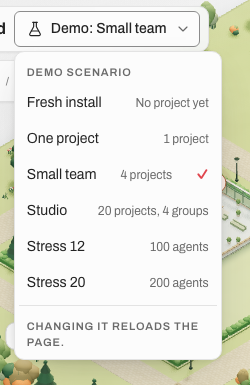
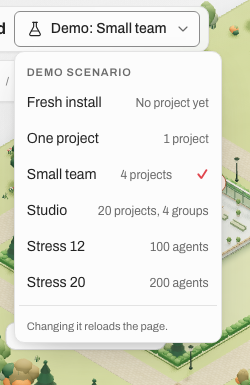
world: the picker's focus note survives blocked site data, and its sentence is a sentence (w5-18, a second commit, round 65)
A fault of the branch's first commit, found on re-reading it: App's mount effect read `globalThis.sessionStorage`
outside the note's `try`. With blocked site data that read itself throws, and the demo rendered an empty page (seen in a
headless browser with the getter throwing: no shell, no canvas; the base's town stands). rememberFocus and takeFocus
now take a function asked inside the `try`, as state/setting.ts does. Red first: two of the four tests in
afterReload.test.ts failed before this.

The picker's line "Changing it reloads the page." stood in the kit's group label capitals; a world.css rule gives it
sentence case, regular weight. The after picture is retaken.

Changed region(s): [[0.056, 0.8104, 0.896, 0.9662]]

diff --git a/apps/world/test/afterReload.test.ts b/apps/world/test/afterReload.test.ts
@@ -1,6 +1,8 @@
 /* Choosing a scenario in the Demo chip's menu loads that scenario's page, and nothing was focused afterwards (round 65,
    walk finding w5-18): the chip remembers, for this tab, that the Demo chip should take the focus once the page is
-   back (state/afterReload.ts, over sessionStorage). Taken once: a later plain reload focuses nothing, as before. */
+   back (state/afterReload.ts, over sessionStorage). Taken once: a later plain reload focuses nothing, as before. The
+   storage is asked for inside the `try`: with blocked site data reading `sessionStorage` itself throws, and that read on
+   the App's mount would leave an empty page (seen in a browser before this was so). */
 import assert from "node:assert/strict";
 import test from "node:test";
 import { rememberFocus, takeFocus } from "../src/state/afterReload.ts";
@@ -17,19 +19,32 @@ const storage = () => {
 
 test("remembered once, taken once: the Demo chip after the scenario's page loads, then nothing", () => {
   const s = storage();
-  assert.equal(takeFocus(s), null, "nothing remembered: nothing to focus");
-  rememberFocus(s, "demo-chip");
+  assert.equal(takeFocus(() => s), null, "nothing remembered: nothing to focus");
+  rememberFocus(() => s, "demo-chip");
   assert.equal(s.map.size, 1, "one key in the tab's storage");
-  assert.equal(takeFocus(s), "demo-chip");
-  assert.equal(takeFocus(s), null, "taken once; a later reload focuses nothing");
+  assert.equal(takeFocus(() => s), "demo-chip");
+  assert.equal(takeFocus(() => s), null, "taken once; a later reload focuses nothing");
   assert.equal(s.map.size, 0, "the key is gone");
 });
 
-test("a value this build does not know, or a storage that throws, is nothing to focus", () => {
+test("a value this build does not know is nothing to focus, and is cleared", () => {
   const s = storage();
   s.setItem("crewhub-world:focus-after-reload", "something-else");
-  assert.equal(takeFocus(s), null);
+  assert.equal(takeFocus(() => s), null);
+  assert.equal(s.map.size, 0);
+});
+
+test("a storage whose methods throw is nothing to remember and nothing to focus", () => {
   const throwing = { getItem: () => { throw new Error("no storage"); }, setItem: () => { throw new Error("no storage"); }, removeItem: () => { throw new Error("no storage"); } };
-  assert.doesNotThrow(() => rememberFocus(throwing, "demo-chip"));
-  assert.equal(takeFocus(throwing), null);
+  assert.doesNotThrow(() => rememberFocus(() => throwing, "demo-chip"));
+  assert.equal(takeFocus(() => throwing), null);
+});
+
+test("reading the storage itself may throw (blocked site data): neither call lets it out", () => {
+  const blocked = (): never => {
+    throw new DOMException("Access is denied", "SecurityError");
+  };
+  assert.doesNotThrow(() => rememberFocus(blocked, "demo-chip"));
+  assert.doesNotThrow(() => takeFocus(blocked));
+  assert.equal(takeFocus(blocked), null);
 });

diff --git a/apps/world/src/state/afterReload.ts b/apps/world/src/state/afterReload.ts
@@ -1,8 +1,9 @@
 /* What should take the focus once a page the chip loaded is back (round 65, walk finding w5-18): choosing a scenario in
    the Demo chip's menu loads that scenario's page (its own source and town document), and nothing was focused
    afterwards, so a keyboard person started from nowhere. The chip remembers, in this tab's storage, that the Demo chip
-   takes the focus; the new page takes the note once. A storage that throws (private mode, a file URL) is nothing to
-   remember and nothing to focus. Pure over the storage it is given. */
+   takes the focus; the new page takes the note once. Storage may throw, reading `sessionStorage` itself included (a
+   private window, blocked site data), so it is asked for inside the `try`, as state/setting.ts does: then there is
+   nothing to remember and nothing to focus. Pure over the storage it is given. */
 const KEY = "crewhub-world:focus-after-reload";
 
 /** The one thing a loaded page knows to focus. */
@@ -10,20 +11,21 @@ export type FocusAfterReload = "demo-chip";
 
 type Store = Pick<Storage, "getItem" | "setItem" | "removeItem">;
 
-export function rememberFocus(storage: Pick<Store, "setItem">, what: FocusAfterReload): void {
+export function rememberFocus(storage: () => Pick<Store, "setItem">, what: FocusAfterReload): void {
   try {
-    storage.setItem(KEY, what);
+    storage().setItem(KEY, what);
   } catch {
     // no storage: the page loads with nothing focused, as before
   }
 }
 
 /** The note, taken (cleared) so a later plain reload focuses nothing; null for none or one this build does not know. */
-export function takeFocus(storage: Pick<Store, "getItem" | "removeItem">): FocusAfterReload | null {
+export function takeFocus(storage: () => Pick<Store, "getItem" | "removeItem">): FocusAfterReload | null {
   try {
-    const value = storage.getItem(KEY);
+    const store = storage();
+    const value = store.getItem(KEY);
     if (value === null) return null;
-    storage.removeItem(KEY);
+    store.removeItem(KEY);
     return value === "demo-chip" ? value : null;
   } catch {
     return null;

diff --git a/apps/world/src/App.tsx b/apps/world/src/App.tsx
@@ -124,7 +124,7 @@ function World() {
   // A page the Demo chip's menu loaded (a scenario chosen) gives the chip the focus back (round 65, w5-18): the note is
   // this tab's and taken once, so a plain reload focuses nothing, as before.
   useEffect(() => {
-    if (takeFocus(globalThis.sessionStorage) === "demo-chip") document.querySelector<HTMLElement>(".demo-chip")?.focus();
+    if (takeFocus(() => globalThis.sessionStorage) === "demo-chip") document.querySelector<HTMLElement>(".demo-chip")?.focus();
   }, []);
   const [announcement, setSpoken] = useState("");
   // The same sentence twice is heard twice (state/announce.ts, round 50 N3); one function for the page's life.
@@ -760,7 +760,7 @@ const Corner = memo(function Corner({
                 // takes the focus once that page is back (round 65, w5-18).
                 onSelect: () => {
                   if (choice.current) return;
-                  rememberFocus(globalThis.sessionStorage, "demo-chip");
+                  rememberFocus(() => globalThis.sessionStorage, "demo-chip");
                   globalThis.location.assign(choice.href);
                 },
               })),

diff --git a/apps/world/src/styles/world.css b/apps/world/src/styles/world.css
@@ -810,6 +810,13 @@
 .demo-menu .menu-item {
   white-space: nowrap;
 }
+/* The picker's last line is a sentence, "Changing it reloads the page." as Settings › Source says it, not a group's name
+   (round 65, w5-18): the kit's group label without its capitals. */
+.demo-menu .menu-sep + .menu-label {
+  font-weight: var(--weight-regular);
+  letter-spacing: normal;
+  text-transform: none;
+}
 .world-corner-left:has(.demo-chip[aria-expanded="true"]) {
   z-index: var(--z-menu);
 }
